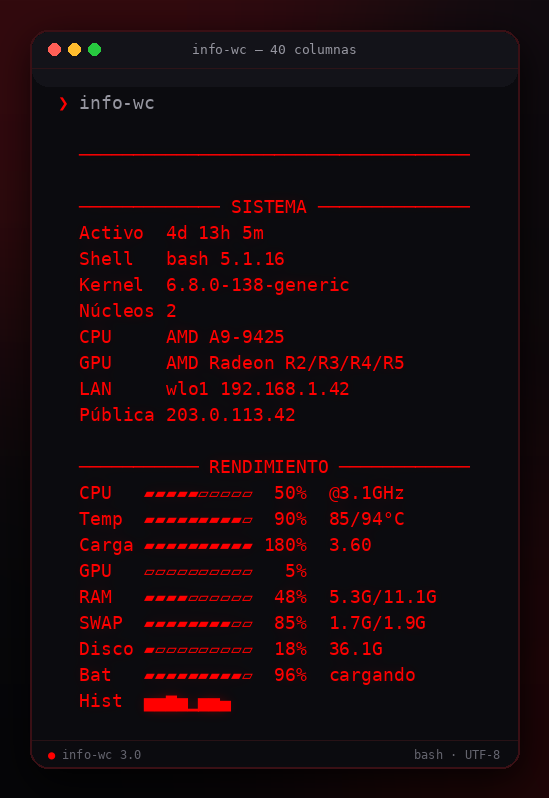
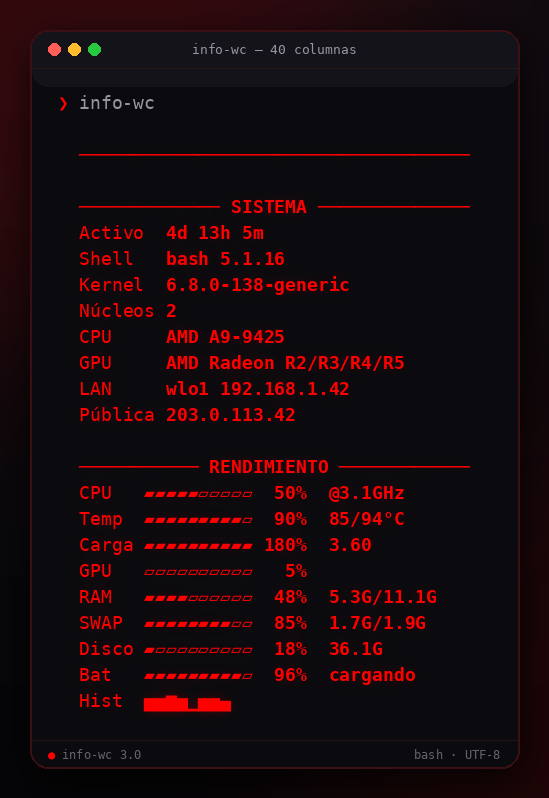
i18n: detección de idioma, opción -l y gif de demo

diff --git a/README.md b/README.md
@@ -25,6 +25,7 @@ Repositorio: <https://github.com/swbasmx/info-wc>
 - **Dos columnas adaptativas**: a partir de 78 columnas; una sola columna en terminales angostas.
 - **Barras animadas** para CPU, temperatura, carga, GPU, RAM, swap, disco y batería.
 - **Duración de animación ajustable** con `-t SEGUNDOS`.
+- **Idioma automático**: detecta `LANG`/`LC_ALL` y permite forzar `es` o `en` con `-l`.
 - **Sparkline de CPU** con las últimas 8 muestras.
 - **Datos útiles**: kernel, shell, uptime, CPU, GPU, LAN, IP pública, temperatura y batería.
 - **Caché de IP pública** con TTL de 15 minutos; `-r` fuerza la actualización.
@@ -33,6 +34,10 @@ Repositorio: <https://github.com/swbasmx/info-wc>
 - **Respeta tu terminal**: `NO_COLOR`, `TERM=dumb`, redirecciones y el flag `-q`.
 
 ## Capturas
+
+<p align="center">
+  <img src="assets/demo.gif" alt="Animación de info-wc" width="100%">
+</p>
 
 <p align="center">
   <img src="assets/preview-wide.png" alt="info-wc en una terminal de 80 columnas" width="100%">
@@ -113,6 +118,7 @@ También puedes ejecutarlo directamente desde el repo:
 ```bash
 info-wc          # panel animado
 info-wc -t 1.5   # animación de 1.5 segundos
+info-wc -l en    # salida en inglés
 info-wc -q       # sin animación
 info-wc -n       # sin consultar la IP pública
 info-wc -r       # refresca la IP pública
@@ -126,6 +132,7 @@ info-wc -h       # ayuda
 | `-n`, `--no-net` | No consulta la IP pública. |
 | `-q`, `--no-anim` | Desactiva la animación y deja una salida estática. |
 | `-t`, `--time S` | Duración de la animación en segundos (por defecto `0.3`). `0` la desactiva. |
+| `-l`, `--lang L` | Idioma: `es` o `en`. Por defecto se detecta desde `LANG`/`LC_ALL`. |
 | `-V`, `--version` | Muestra la versión. |
 | `-h`, `--help` | Muestra la ayuda. |
 
@@ -153,6 +160,7 @@ Elimina `~/.local/bin/info-wc` y el bloque marcado de `~/.bashrc`. No toca el re
 - **Barras**: `▰` para lo lleno y `▱` para lo vacío; 10 celdas por barra.
 - **Animación**: dibuja la regla superior y rellena las barras en 6 pasos; usa `\033[5A` para redibujar sin parpadeo. `-t` ajusta la duración total.
 - **Color**: truecolor `255;0;0`, fallback a `196` en 256 colores y `91` en 16 colores. Se desactiva si no hay TTY, si `NO_COLOR` está definido o si `TERM=dumb`.
+- **Idioma**: detecta `LC_ALL`, `LC_MESSAGES`, `LANGUAGE` o `LANG`; `-l es|en` lo fuerza. También puedes usar `INFO_WC_LANG`.
 - **Caché**: la IP pública se guarda en `${XDG_CACHE_HOME:-$HOME/.cache}/info-wc/public-ip` durante 15 minutos.
 
 ## Personalización
